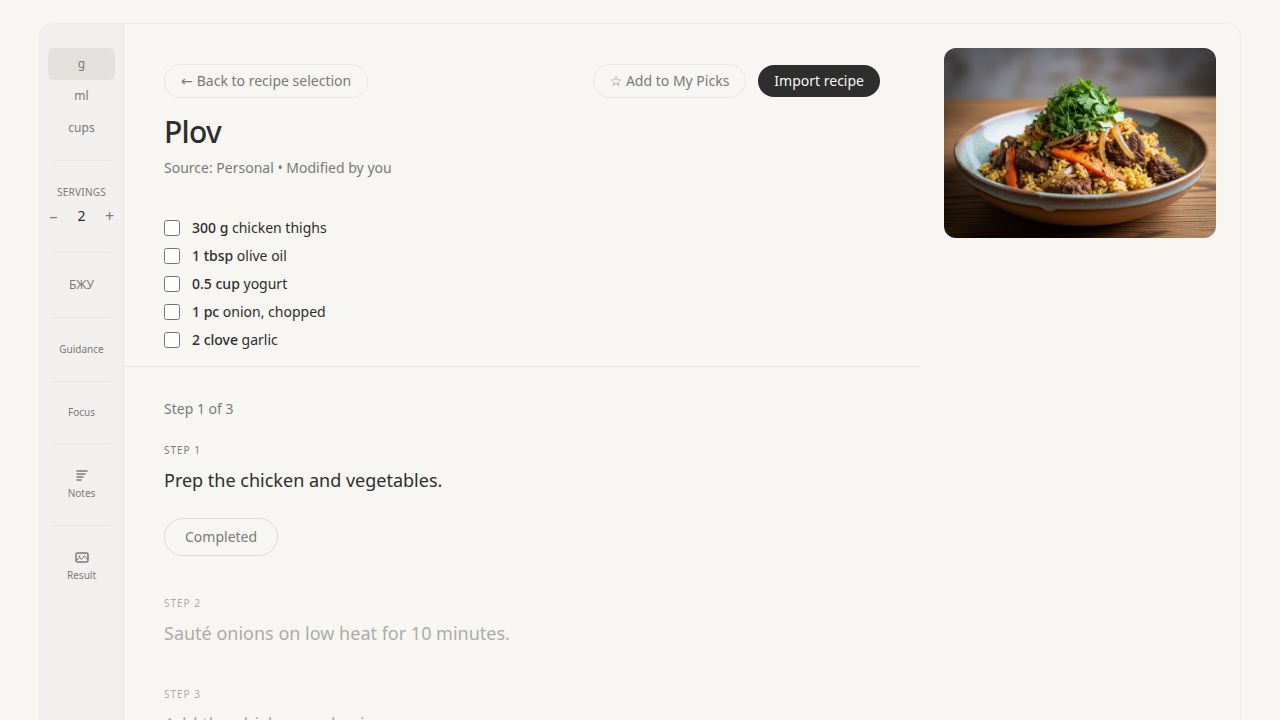
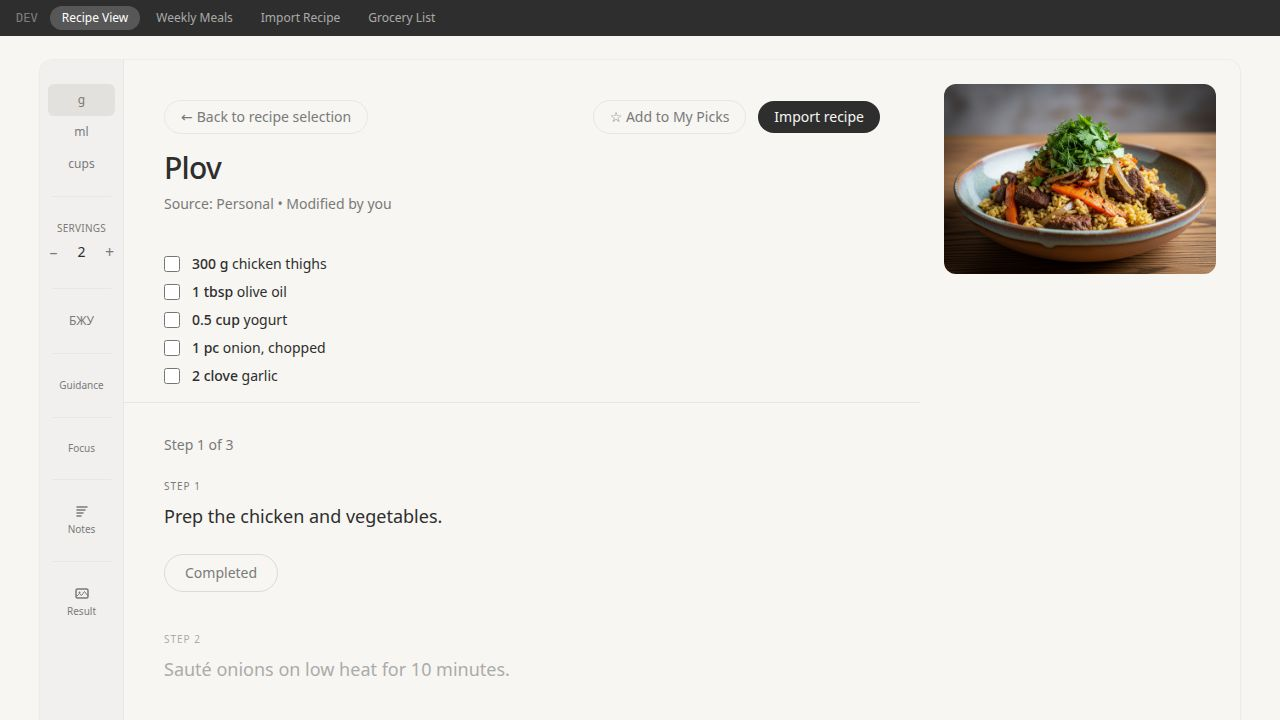
Add a development navigation bar to easily switch between application pages
Imports Link, useLocation from 'wouter' and defines a DevNav component that renders a navigation bar with links to different routes in the application. This component is conditionally rendered and placed at the top of the App component.

Replit-Commit-Author: Agent
Replit-Commit-Session-Id: 36842d64-69d2-476c-8e03-5f665d7f5e66
Replit-Commit-Checkpoint-Type: full_checkpoint
Replit-Commit-Event-Id: 77a22bf9-84ee-470f-8fb5-cecbbf198d69
Replit-Commit-Screenshot-Url: https://storage.googleapis.com/screenshot-production-us-central1/7a187424-42c1-4c10-8541-b778e38b2dbf/36842d64-69d2-476c-8e03-5f665d7f5e66/jsGPtSL
Replit-Helium-Checkpoint-Created: true

diff --git a/client/src/App.tsx b/client/src/App.tsx
@@ -1,4 +1,4 @@
-import { Switch, Route } from "wouter";
+import { Switch, Route, useLocation, Link } from "wouter";
 import { queryClient } from "./lib/queryClient";
 import { QueryClientProvider } from "@tanstack/react-query";
 import { Toaster } from "@/components/ui/toaster";
@@ -8,6 +8,36 @@ import WeeklyMeals from "@/pages/weekly-meals";
 import ImportRecipe from "@/pages/import-recipe";
 import GroceryList from "@/pages/grocery-list";
 import NotFound from "@/pages/not-found";
+
+const NAV_LINKS = [
+  { path: "/", label: "Recipe View" },
+  { path: "/meals", label: "Weekly Meals" },
+  { path: "/import", label: "Import Recipe" },
+  { path: "/grocery-list", label: "Grocery List" },
+];
+
+function DevNav() {
+  const [location] = useLocation();
+  return (
+    <nav className="bg-[#2E2E2E] px-4 py-1.5 flex items-center gap-1 text-xs" data-testid="dev-nav">
+      <span className="text-white/40 mr-2 font-mono">DEV</span>
+      {NAV_LINKS.map(link => (
+        <Link
+          key={link.path}
+          href={link.path}
+          className={`px-3 py-1 rounded-full transition-colors ${
+            location === link.path
+              ? "bg-white/20 text-white"
+              : "text-white/60 hover:text-white hover:bg-white/10"
+          }`}
+          data-testid={`dev-nav-link-${link.path === "/" ? "home" : link.path.slice(1)}`}
+        >
+          {link.label}
+        </Link>
+      ))}
+    </nav>
+  );
+}
 
 function Router() {
   return (
@@ -26,6 +56,7 @@ function App() {
     <QueryClientProvider client={queryClient}>
       <TooltipProvider>
         <Toaster />
+        <DevNav />
         <Router />
       </TooltipProvider>
     </QueryClientProvider>
